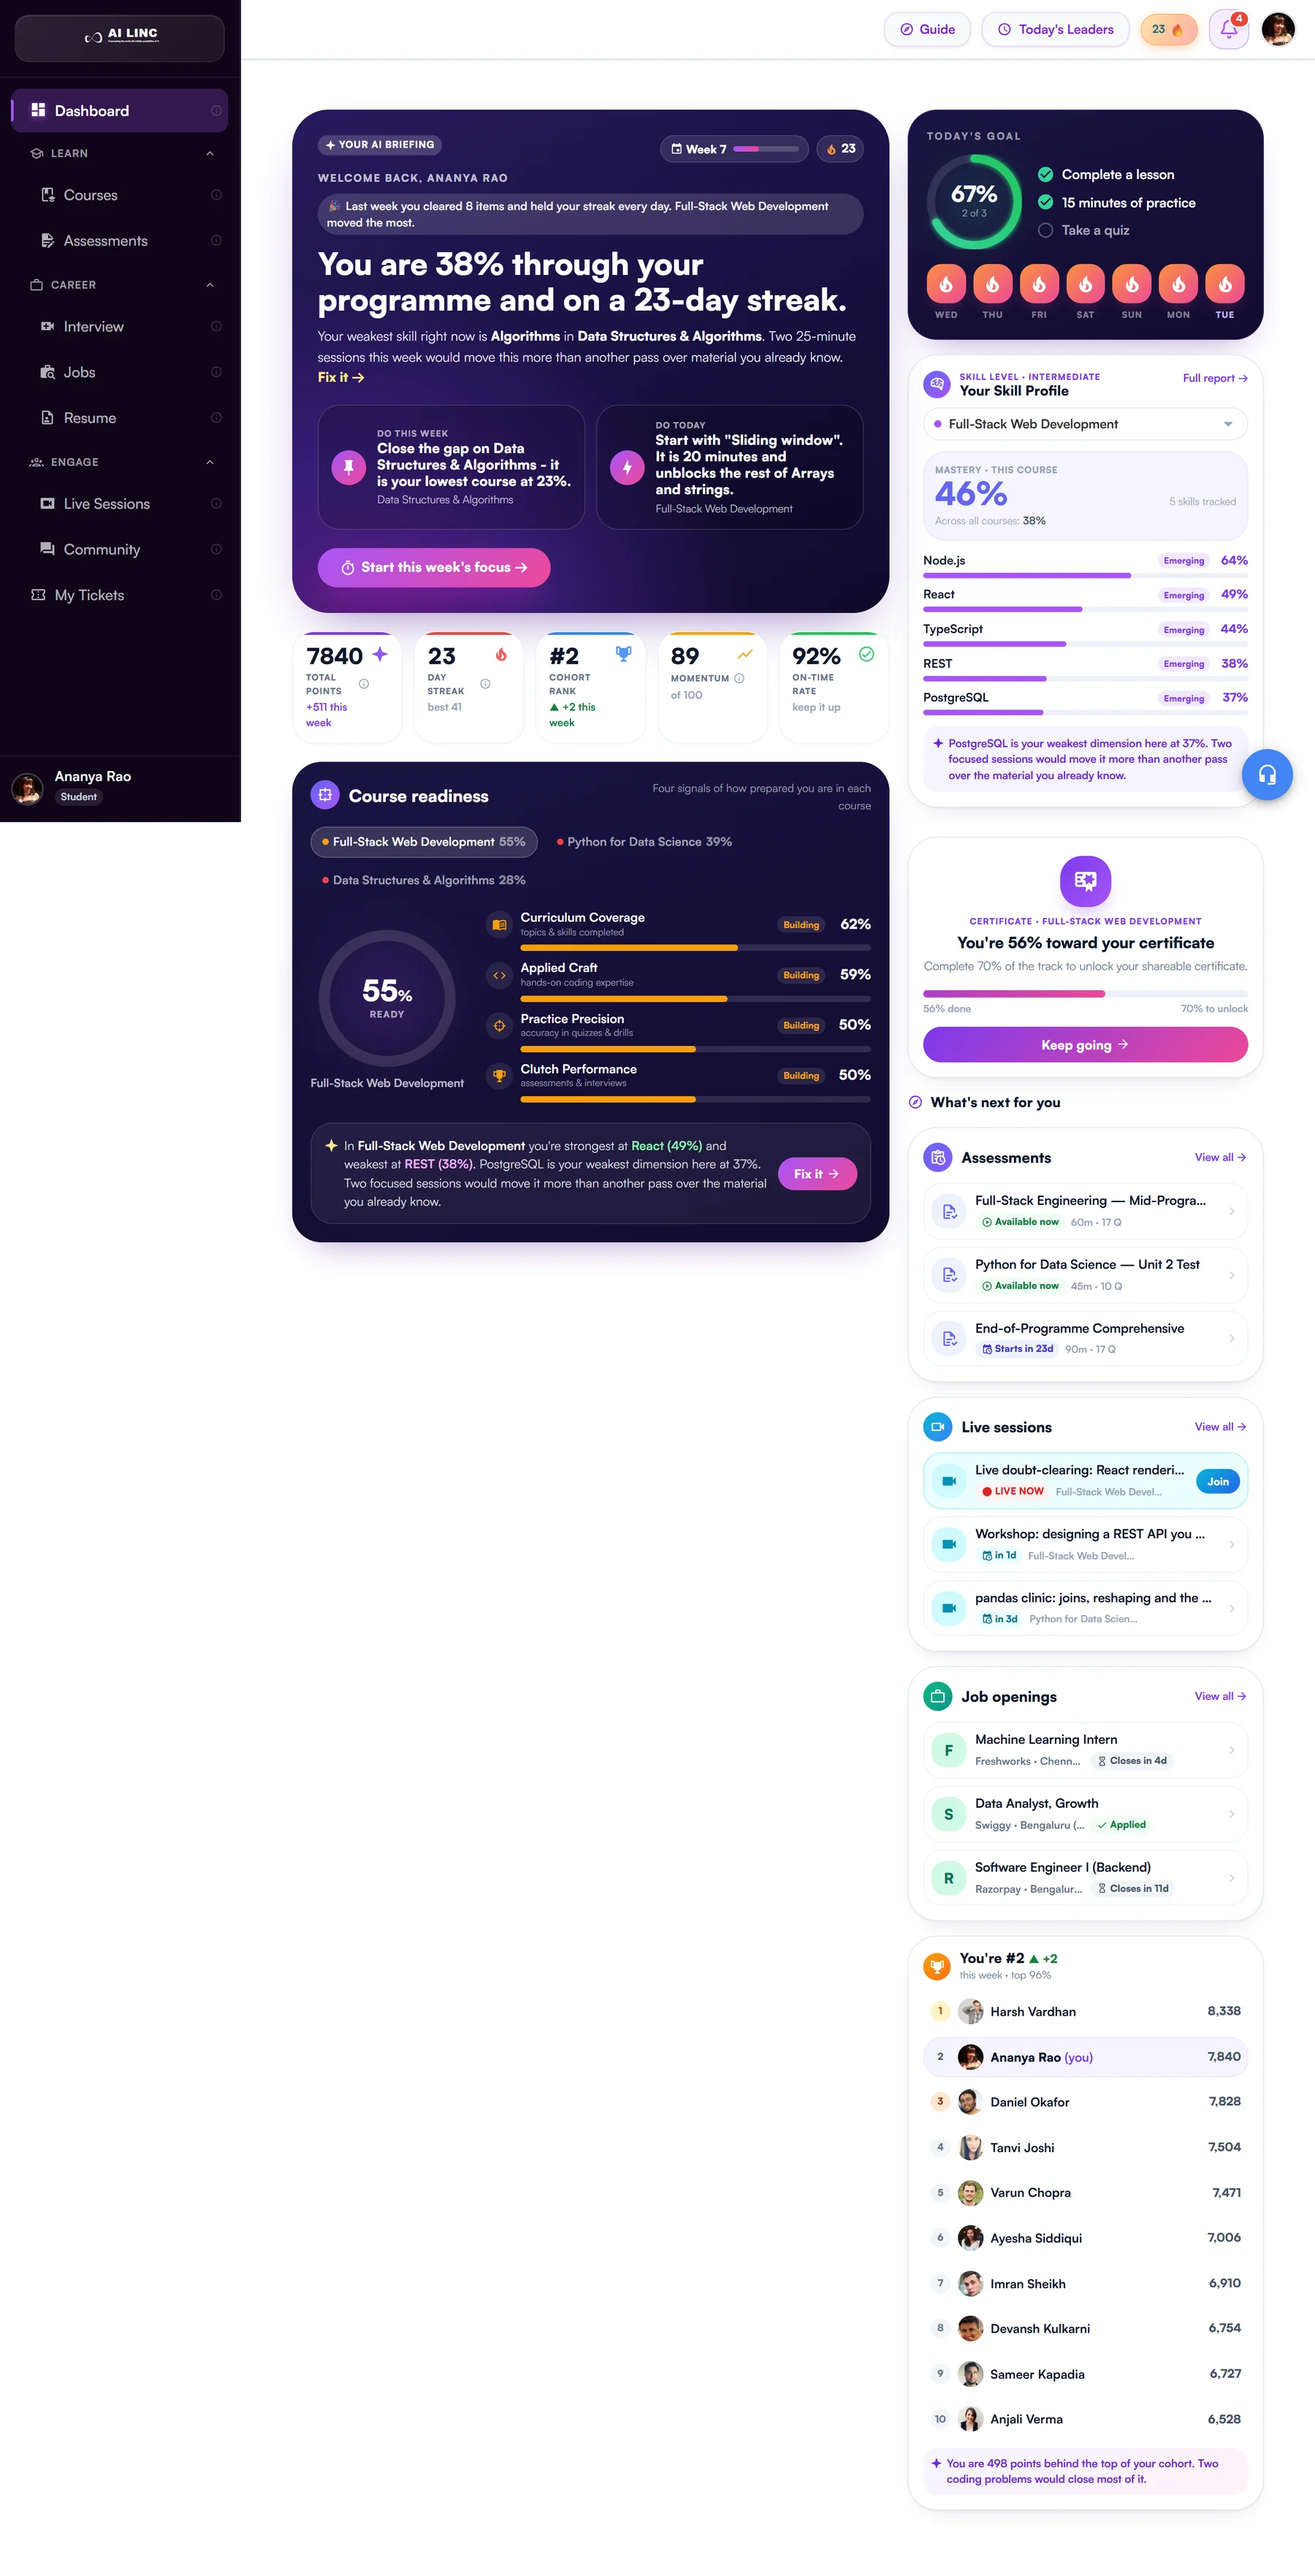
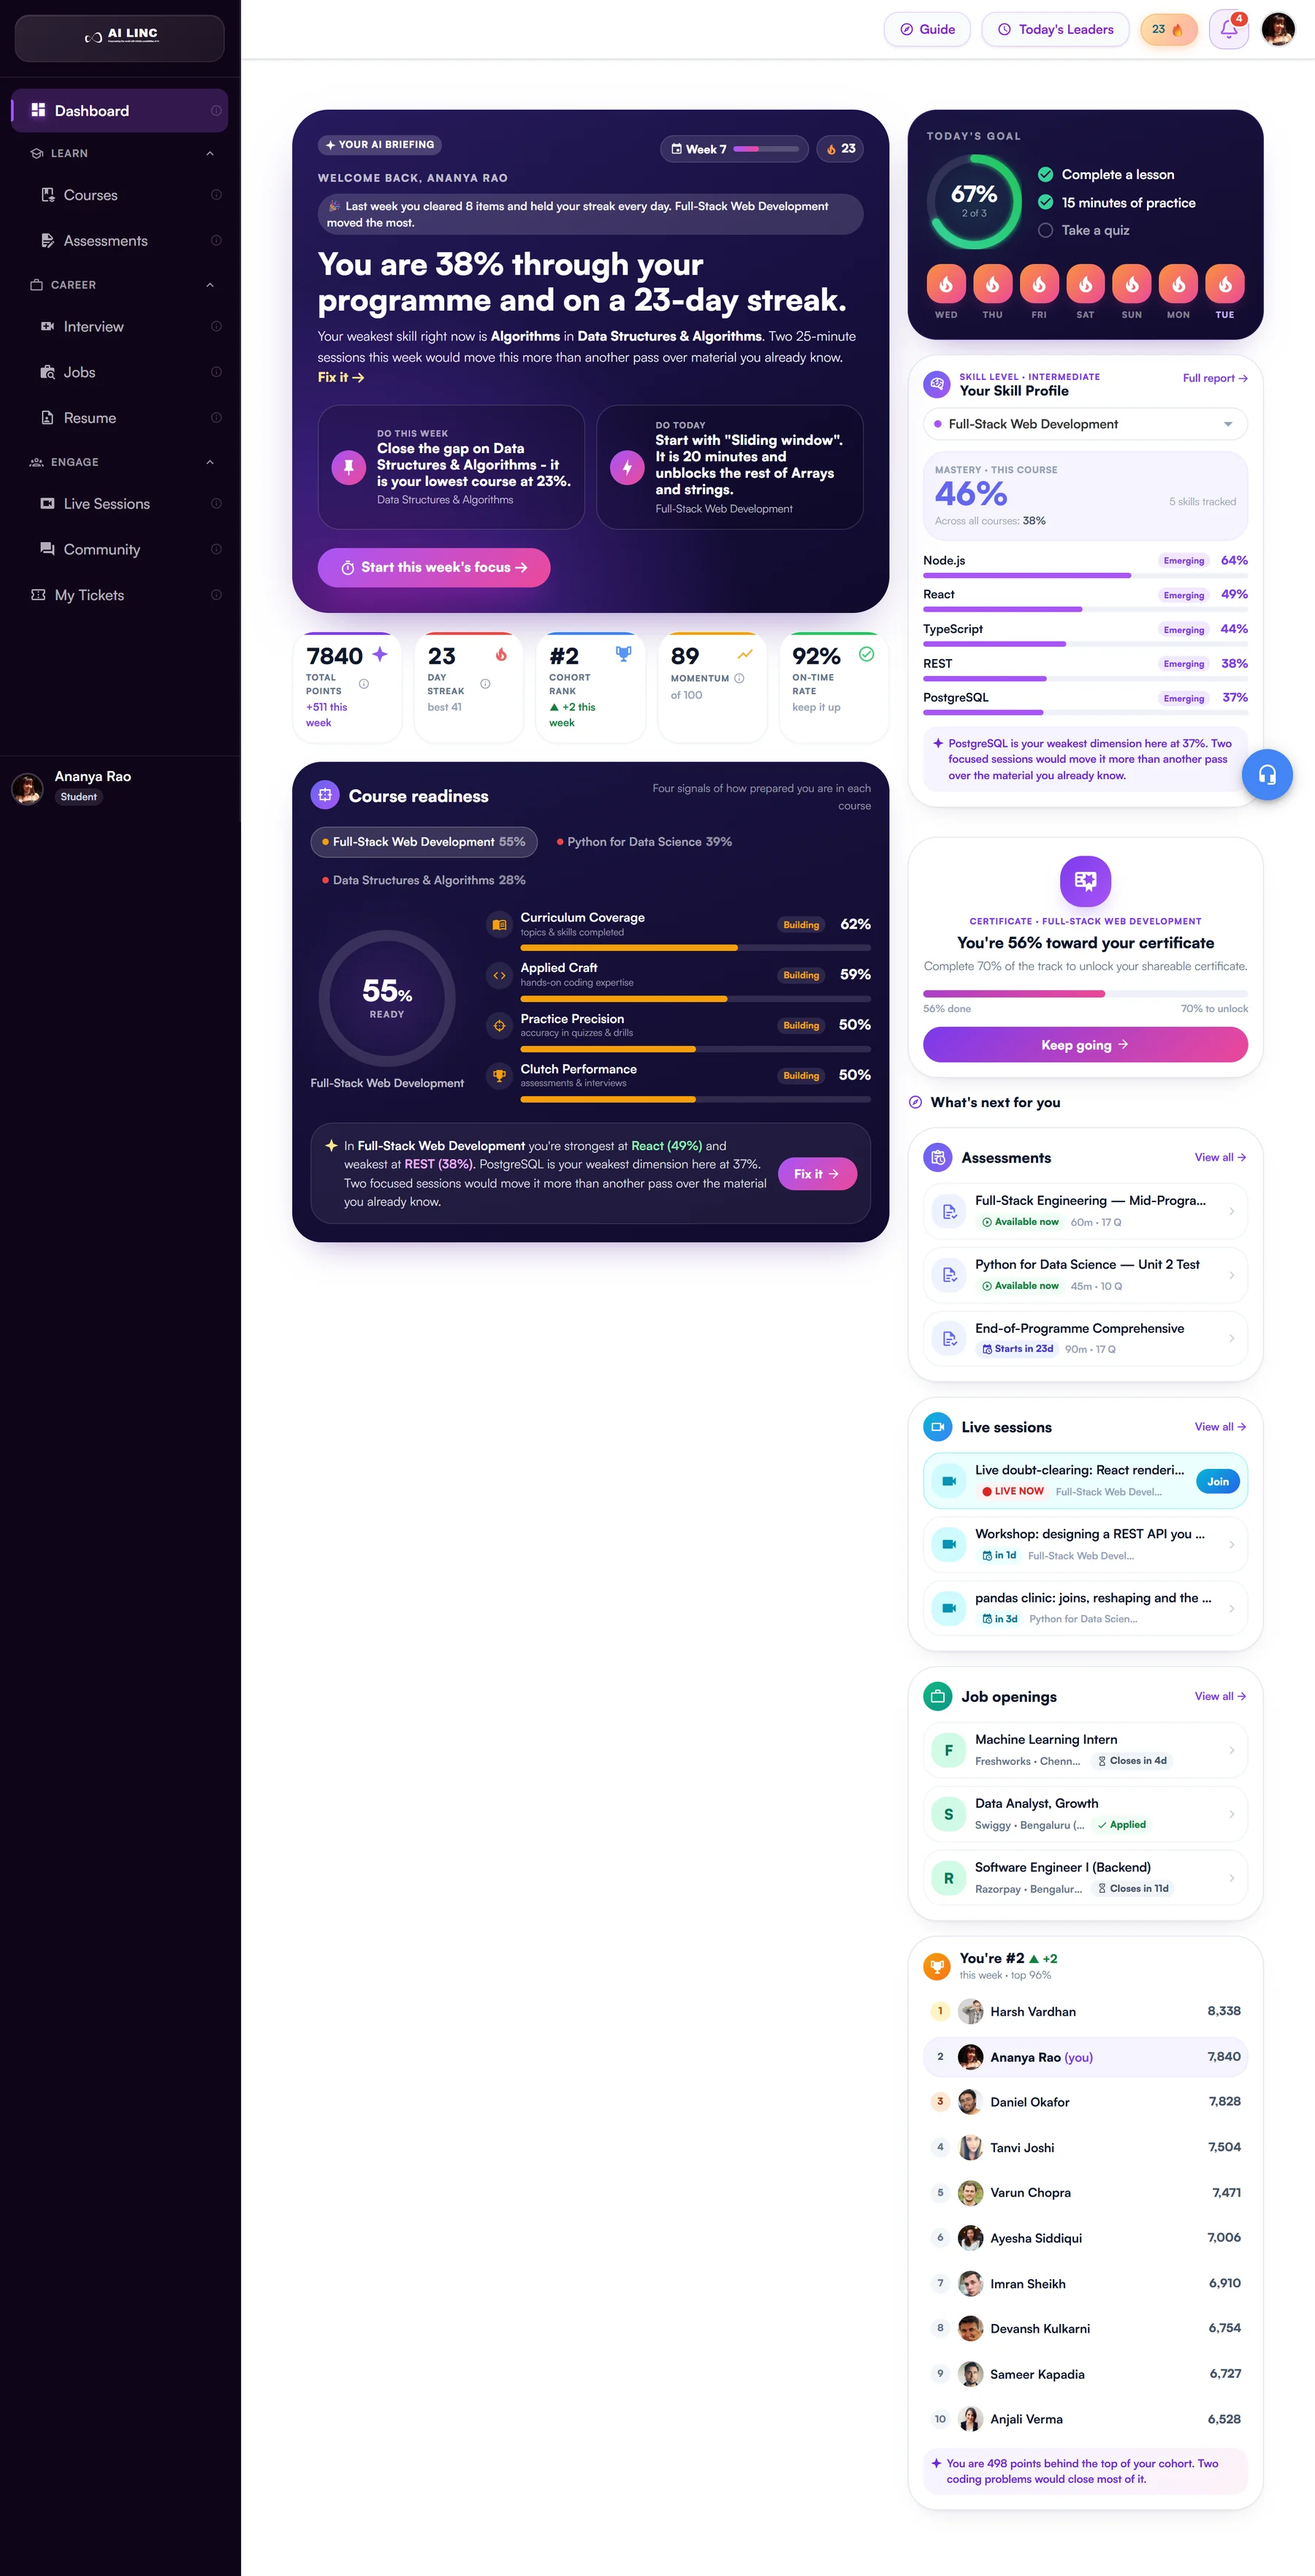
Hero: pan the dashboard from page scroll instead of a nested scrollbar
The window had its own scroll area and a "scroll inside" hint, which asked the
visitor to discover a second scrollbar. Page scroll now drives the pan directly.

- Travel distance is measured from the DOM rather than assumed: the capture is
  ~1.96x as tall as it is wide, so the overflow differs hugely between a phone
  and a desktop.
- The pan is anchored to the hero section with offset ["start start", ...], so
  progress is exactly 0 on first paint at any viewport height. Anchoring to the
  window itself left it pre-scrolled ~164px on load, cropping the top of the
  briefing card.

Also repairs dashboard-full.webp. The app sidebar is position: fixed, so the
full-page capture painted it once and left the left column white for the
remaining 3840px — which appeared as a broken white gutter once the image
actually moved. The column is now filled with the sidebar's own colour.

Changed region(s): [[0.0, 0.3121, 0.1867, 1.0]]

diff --git a/src/components/sections/Hero.tsx b/src/components/sections/Hero.tsx
@@ -1,8 +1,15 @@
 "use client";
 
 import Image from "next/image";
-import { motion, useMotionValue, useScroll, useSpring, useTransform } from "motion/react";
-import { useEffect, useRef, useState } from "react";
+import {
+  motion,
+  useMotionValue,
+  useMotionValueEvent,
+  useScroll,
+  useSpring,
+  useTransform,
+} from "motion/react";
+import { useEffect, useRef } from "react";
 import { AppWindow } from "@/components/ui/AppWindow";
 import { Button, WordReveal } from "@/components/ui/primitives";
 import { brand, hero } from "@/content/site";
@@ -11,8 +18,8 @@ import { asset } from "@/lib/site";
 export default function Hero() {
   const sectionRef = useRef<HTMLDivElement>(null);
   const windowRef = useRef<HTMLDivElement>(null);
-  const scrollerRef = useRef<HTMLDivElement>(null);
-  const [hintVisible, setHintVisible] = useState(true);
+  const viewportRef = useRef<HTMLDivElement>(null);
+  const imageRef = useRef<HTMLDivElement>(null);
 
   /* -- scroll-linked 3D reveal of the dashboard window ------------------- */
   const { scrollYProgress } = useScroll({
@@ -27,6 +34,52 @@ export default function Hero() {
   const rotateX = useTransform(eased, [0, 1], [26, 0]);
   const scale = useTransform(eased, [0, 1], [0.86, 1]);
   const translateY = useTransform(eased, [0, 1], [60, 0]);
+
+  /* -- the dashboard pans itself as the page scrolls ---------------------- */
+  // The tall screenshot is taller than its frame; page scroll drives how far it
+  // has travelled, so the visitor never has to find a second scrollbar.
+  // Anchored to the hero section, not the window: "start start" means progress
+  // is exactly 0 while the section top is still at or below the viewport top —
+  // i.e. on first paint, at any viewport height. Anchoring to the window itself
+  // left it pre-scrolled on load, cropping the top of the briefing card.
+  const { scrollYProgress: panProgress } = useScroll({
+    target: sectionRef,
+    offset: ["start start", "end start"],
+  });
+  const panEased = useSpring(panProgress, {
+    stiffness: 80,
+    damping: 30,
+    restDelta: 0.0005,
+  });
+
+  // Travel distance is measured rather than assumed: the image is ~1.96x as
+  // tall as it is wide, so the overflow differs hugely between phone and
+  // desktop. A ref keeps the latest value available to the subscription below.
+  const panY = useMotionValue(0);
+  const maxPan = useRef(0);
+
+  useEffect(() => {
+    const measure = () => {
+      const frame = viewportRef.current;
+      const img = imageRef.current;
+      if (!frame || !img) return;
+      maxPan.current = Math.max(0, img.offsetHeight - frame.clientHeight);
+      panY.set(-panEased.get() * maxPan.current);
+    };
+    measure();
+    window.addEventListener("resize", measure);
+    const ro = new ResizeObserver(measure);
+    if (imageRef.current) ro.observe(imageRef.current);
+    if (viewportRef.current) ro.observe(viewportRef.current);
+    return () => {
+      window.removeEventListener("resize", measure);
+      ro.disconnect();
+    };
+  }, [panY, panEased]);
+
+  useMotionValueEvent(panEased, "change", (v) => {
+    panY.set(-v * maxPan.current);
+  });
 
   /* -- cursor-tracking light on the backdrop ----------------------------- */
   const px = useMotionValue(50);
@@ -174,41 +227,27 @@ export default function Hero() {
             }}
           >
             <AppWindow>
-              {/* The real dashboard, full height, scrollable inside the frame. */}
+              {/* The real dashboard, full height. It pans itself as the page
+                  scrolls — no nested scrollbar for the visitor to discover. */}
               <div
-                ref={scrollerRef}
-                onScroll={() => setHintVisible(false)}
-                className="relative h-[clamp(20rem,52vh,34rem)] overflow-y-auto overscroll-contain [scrollbar-width:thin]"
+                ref={viewportRef}
+                className="relative h-[clamp(20rem,52vh,34rem)] overflow-hidden"
               >
-                <Image
-                  src={asset("/platform/dashboard-full.webp")}
-                  alt="The AI Linc student dashboard — AI briefing, today's goal, skill profile and course readiness"
-                  width={1800}
-                  height={3525}
-                  priority
-                  className="w-full"
-                />
+                <motion.div
+                  ref={imageRef}
+                  style={{ y: panY }}
+                  className="will-change-transform"
+                >
+                  <Image
+                    src={asset("/platform/dashboard-full.webp")}
+                    alt="The AI Linc student dashboard — AI briefing, today's goal, skill profile and course readiness"
+                    width={1800}
+                    height={3525}
+                    priority
+                    className="w-full"
+                  />
+                </motion.div>
               </div>
-
-              {/* scroll affordance */}
-              <motion.div
-                aria-hidden
-                initial={{ opacity: 0, y: 6 }}
-                animate={{ opacity: hintVisible ? 1 : 0, y: 0 }}
-                transition={{ duration: 0.5, delay: 1.4 }}
-                className="pointer-events-none absolute inset-x-0 bottom-0 flex justify-center bg-gradient-to-t from-white via-white/70 to-transparent pt-10 pb-3"
-              >
-                <span className="flex items-center gap-2 rounded-full border border-line bg-surface px-3.5 py-1.5 text-[0.75rem] font-medium text-body shadow-sm">
-                  <motion.span
-                    animate={{ y: [0, 3, 0] }}
-                    transition={{ duration: 1.6, repeat: Infinity }}
-                    className="text-violet"
-                  >
-                    ↕
-                  </motion.span>
-                  Scroll inside to explore the real dashboard
-                </span>
-              </motion.div>
             </AppWindow>
           </motion.div>
 

diff --git a/README.md b/README.md
@@ -70,9 +70,11 @@ jobs.webp             resume.webp           live-sessions.webp
 community.webp
 ```
 
-`dashboard-full.webp` is the full-height dashboard — it is what scrolls inside
-the hero window. To refresh any of them, recapture at 1440×900 @2× and re-export
-to WebP at the same width.
+`dashboard-full.webp` is the full-height dashboard — it is what pans inside the
+hero window as the page scrolls. Note that the app sidebar is `position: fixed`,
+so a full-page capture paints it only once and leaves white below; the shipped
+file has that column filled back in (see `scratchpad` fix-sidebar step). If you
+recapture it, repeat that repair or the left column will go blank on scroll.
 
 ---
 
@@ -87,7 +89,7 @@ back to static grids and a plain swipe carousel.
 | Cursor-tracked light       | hero backdrop        | spring-damped radial gradient             |
 | Magnetic buttons           | all primary CTAs     | `Magnetic` — spring translate to cursor   |
 | 3D scroll tilt             | hero dashboard       | `rotateX` 26°→0 driven by scroll          |
-| Scroll-inside window       | hero                 | real full-height dashboard, `overflow-y`  |
+| Self-panning dashboard     | hero                 | page scroll drives translateY on the tall capture; no nested scrollbar |
 | Drifting mesh blobs        | most sections        | CSS `drift-a/b/c` keyframes               |
 | Pinned vertical reel       | The Problem          | 560vh track → continuous index MotionValue |
 | Split-door reveal          | Problem → Solution   | panel halves part from the centre, solution emerges behind |
